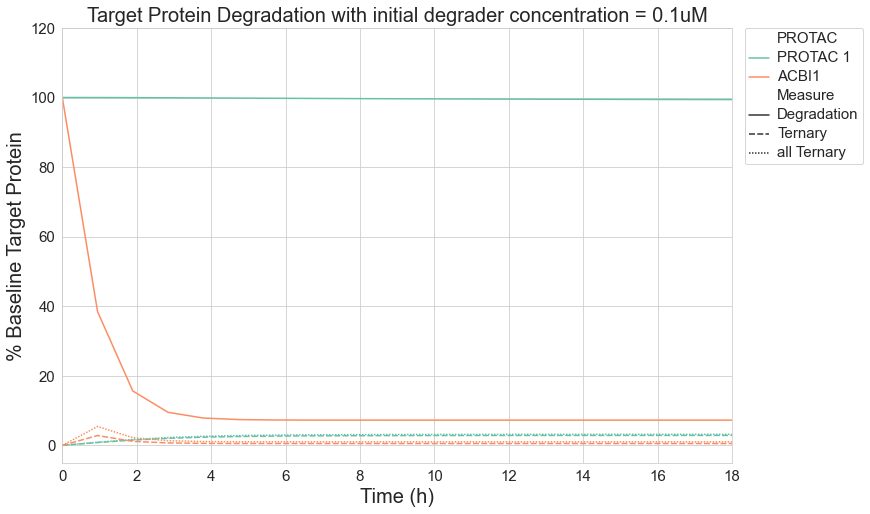
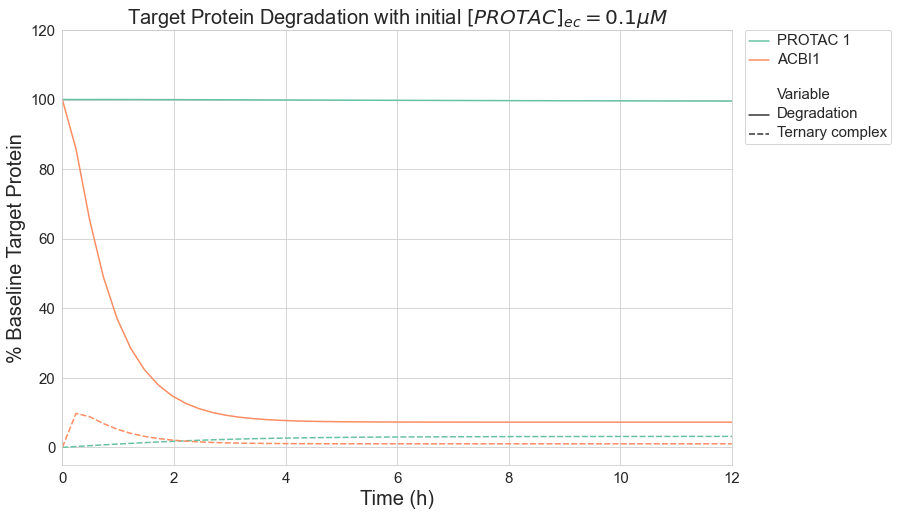
rename standard degradation files

diff --git a/bin/time_with_fixed_degrader.py b/bin/time_with_fixed_degrader.py
@@ -24,7 +24,7 @@ if __name__ == '__main__':
         full_params_38406 = Params_38406.get_dict()
 
     initial_BPD_ec_concs = [0.1]  # initial concentrations of BPD_ec (uM)
-    t = np.linspace(0, 24, num=50)  # time points at which to evaluate solver
+    t = np.linspace(0, 12, num=50)  # time points at which to evaluate solver
 
     pool = mp.Pool(processes=mp.cpu_count())
     inputs = [(initial_BPD_ec_concs, t, params) for params in [full_params_38404, full_params_38406]]
